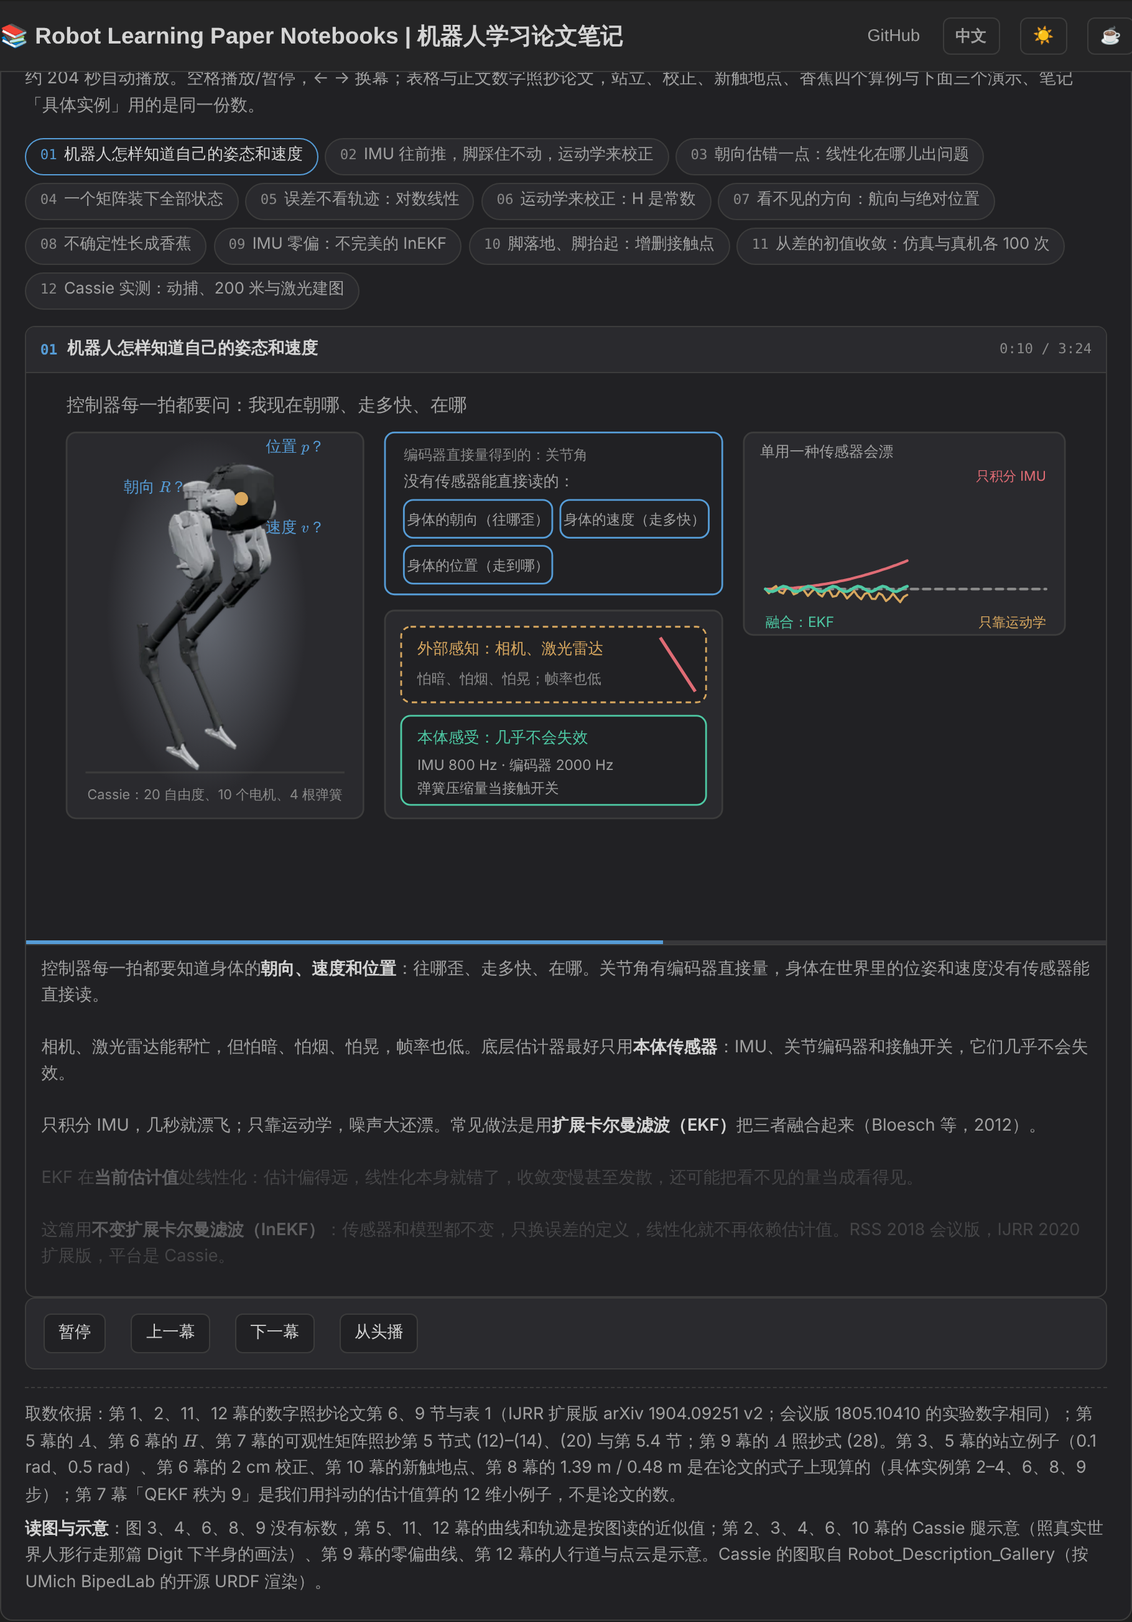
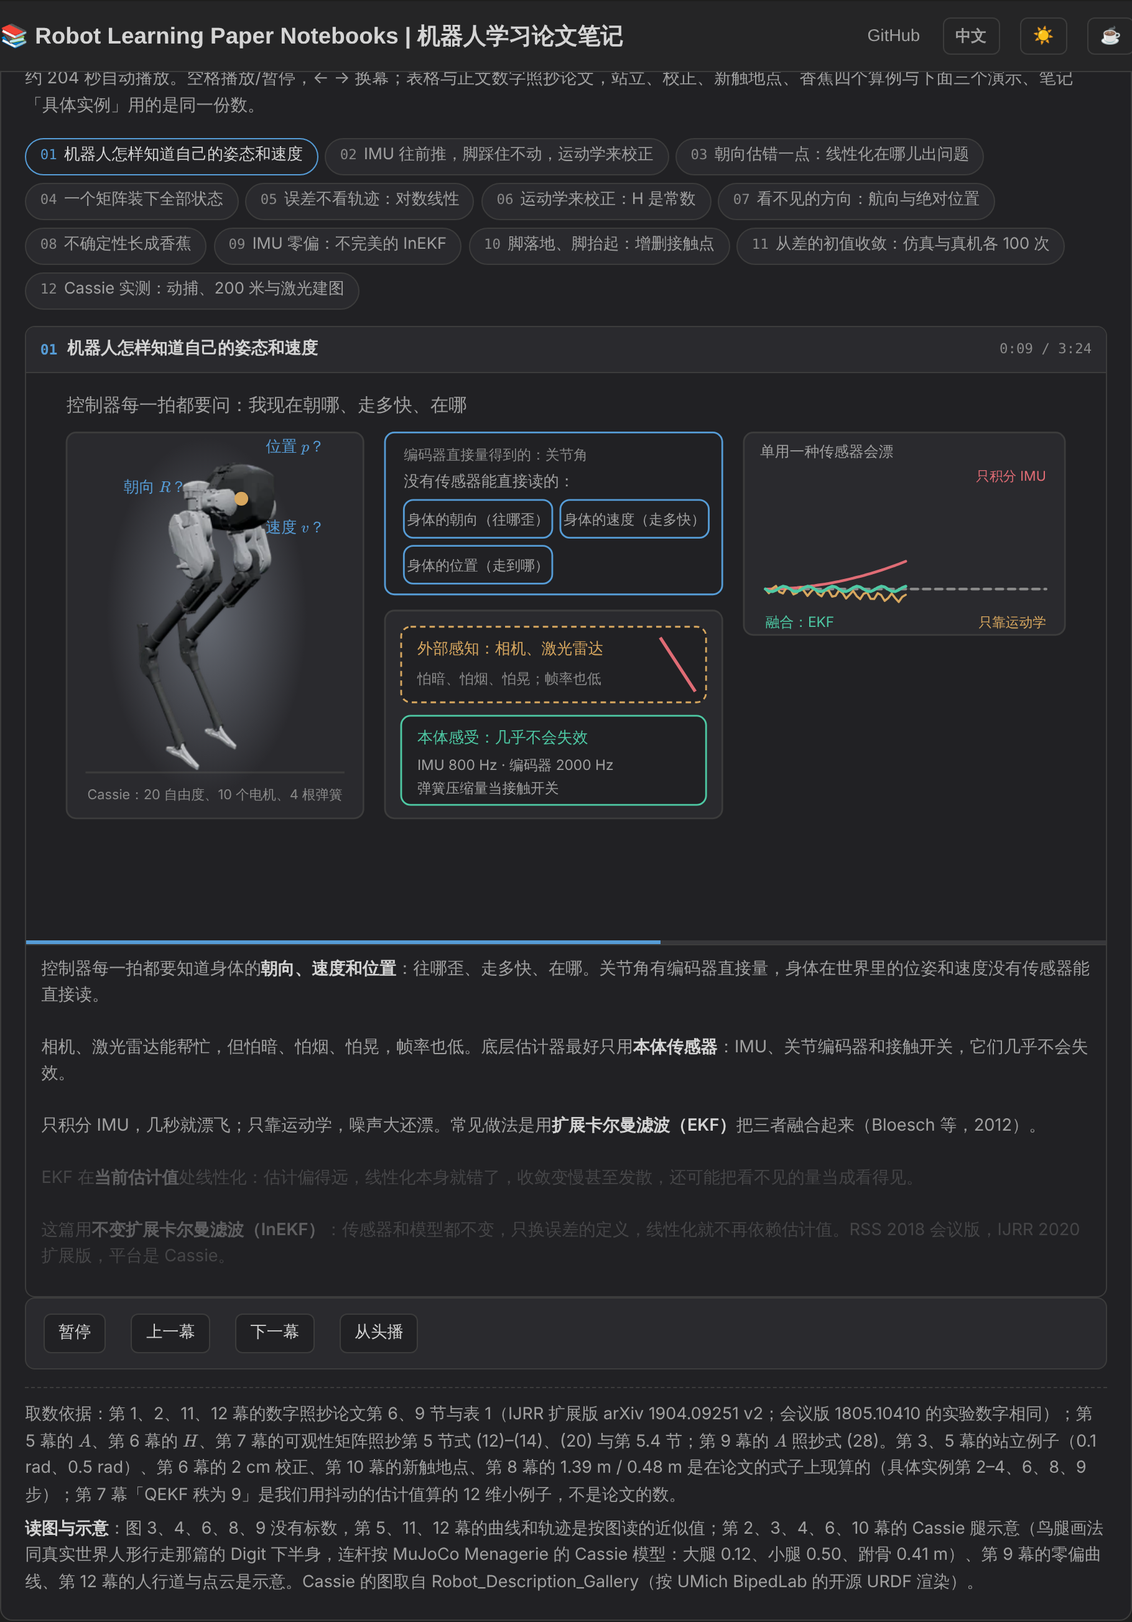
fix(Video): InEKF 的 Cassie 腿按真机连杆比例画，大腿 : 小腿 : 跗骨 = 0.12 : 0.50 : 0.41 m
- 上一版借用 Digit 示意的 0.36 / 0.42 / 0.23，大腿长了三倍。连杆改取 MuJoCo Menagerie 的 agility_cassie/cassie.xml
  （Robot_Description_Gallery 记录的 MJCF）：髋俯仰 → 膝 0.12、膝 → 跗骨关节 0.50、跗骨关节 → 脚关节 0.41；
  按 home 关键帧做正运动学，站立时髋俯仰离地 0.916、脚关节离地 0.057，脚板从脚关节后 0.06 到前 0.10
- achilles 杆让大腿和跗骨成近似平行四边形：解约束算得膝弯 ±0.25 rad 时跗骨方向始终比大腿偏约 7°（6.9–7.3°），
  所以画图时跗骨跟着大腿转，一条腿只剩大腿角一个自由度，按「小腿长度不变」一维求根，取离站立角最近的根
- 新常量 CASSIE_LEG 集中放连杆数，比例改这一处；脚画成三角形；第 6 幕摆动脚收到身体下方，第 10 幕腿长按实际髋高 66 px
- 测试改为 test_inekf_legs_use_the_cassie_link_lengths：用 MJCF 相邻 body 的 pos 现算三段长度并核对比例 1 : 4.2 : 3.4

Claude-Session: https://claude.ai/code/session_01PLYEa36V2gsL86FEXwhLUW

Changed region(s): [[0.0308, 0.9317, 0.9846, 0.9939], [0.7692, 0.3416, 0.8, 0.3727]]

diff --git a/assets/js/demos/inekf.js b/assets/js/demos/inekf.js
@@ -60,6 +60,11 @@
      十二幕动画、三个演示、配音旁白与笔记「🚶 具体实例」共用这一份。 */
   var G = 9.81; // 代码 InEKF.cpp：g_ = (0, 0, −9.81)
   var CASSIE = { dof: 20, actuators: 10, springs: 4, encoders: 14, imuHz: 800, encHz: 2000, height: 1.2732 }; // 第 9 节；身高取自 Robot_Description_Gallery 的 URDF 测量（UMich BipedLab 展示模型）
+  /* Cassie 一条腿在侧视平面里的连杆（m），取自 mujoco_menagerie 的 agility_cassie/cassie.xml（Robot_Description_Gallery 记录的 MJCF），
+     按 home 关键帧做正运动学：髋俯仰 → 膝 0.12、膝 → 跗骨关节 0.50、跗骨关节 → 脚关节 0.41；站立时髋俯仰离地 0.916、脚关节离地 0.057，
+     脚板（碰撞胶囊）从脚关节后 0.06 到前 0.10。achilles 杆把大腿和跗骨连成近似平行四边形：膝弯 ±0.25 rad 时跗骨方向始终比大腿偏约 7°，
+     所以画图时跗骨跟着大腿转，一条腿只剩一个自由度。比例 大腿 : 小腿 : 跗骨 ≈ 1 : 4.2 : 3.4 */
+  var CASSIE_LEG = { thigh: 0.12, shin: 0.5, tarsus: 0.41, hipH: 0.916, footJointH: 0.057, heel: 0.06, toe: 0.1, tarsusFromThighDeg: 7.1, thighDeg: 61.5 };
   var TABLE1 = {
     // 表 1：离散噪声标准差与初始标准差（扩展版的零偏单位是 m/s³、rad/s²；会议版写成 m/s²、rad/s）
     noise: [['线加速度', '0.04 m/s²'], ['角速度', '0.002 rad/s'], ['加速度计零偏', '0.001 m/s³'], ['陀螺零偏', '0.001 rad/s²'], ['接触点线速度', '0.05 m/s'], ['关节编码器', '1.0°']],
@@ -787,17 +792,18 @@
     g.appendChild(img);
     return { g: g, w: w, h: h, mark: function (nn) { return [x + nn[0] * w, yBottom - h + nn[1] * h]; } };
   }
-  /* 侧视的 Cassie 示意（面朝 +x）：骨盆是一个带坐标轴的圆角块（IMU 在里面），腿照真实世界人形行走那篇的
-     Digit 下半身画 —— Digit 的腿就是 Cassie 的腿：大腿往前、小腿往后、跗骨再往前落到脚板上，髋上一个电机盘。
-     远侧那条腿淡一些。o.legH 是站直时髋到地面的像素数（连杆长度按它定，取 Digit 的比例），o.bodySc 缩放骨盆。
-     put(x, y, ang, feet, rigid)：骨盆中心 (x, y)、俯仰 ang（rad，图上逆时针为正）、feet = [[x, y, 着地?], …]（先近侧后远侧）；
-     rigid 为真时跗骨和脚板也跟着骨盆转（第 4 幕把整个机器人当刚体转一下） */
+  /* 侧视的 Cassie 示意（面朝 +x）：骨盆是一个带坐标轴的圆角块（IMU 在里面），腿按 CASSIE_LEG 的真实连杆画（鸟腿，同真实世界人形行走那篇的
+     Digit 下半身）：很短的大腿往前下、长小腿往后下、长跗骨再往前下落到三角形的脚上；跗骨方向 = 大腿方向偏 7°（achilles 平行四边形）。
+     远侧那条腿淡一些。o.legH 是站直时髋到地面的像素数（1 m = legH / 0.916 px），o.bodySc 缩放骨盆。
+     put(x, y, ang, feet, rigid)：骨盆中心 (x, y)、俯仰 ang（rad，图上逆时针为正）、feet = [[x, y, 着地?], …]（先近侧后远侧，给的是脚底在地上的点）；
+     rigid 为真时脚也跟着骨盆转（第 4 幕把整个机器人当刚体转一下） */
   function cassieLegs(parent, color, dashed, opts) {
-    var o = opts || {}, H = o.legH || 62, bs = o.bodySc || 1;
-    var M = H / 0.86, L1 = 0.36 * M, L2 = 0.42 * M, TAR = [-0.11 * M, -0.2 * M], ws = Math.min(M / 100, 1.1);
+    var o = opts || {}, bs = o.bodySc || 1, LG = CASSIE_LEG;
+    var M = (o.legH || 62) / LG.hipH, ws = Math.min(M / 70, 1.1);
+    var L1 = LG.thigh * M, L2 = LG.shin * M, L3 = LG.tarsus * M, C = (LG.tarsusFromThighDeg * Math.PI) / 180, A0 = (LG.thighDeg * Math.PI) / 180;
     var g = group(parent);
     function bone(parentG, w) {
-      var ln = paint(svgEl('line', { 'stroke-width': (dashed ? Math.max(1.6, w * ws * 0.55) : w * ws).toFixed(2), 'stroke-linecap': 'round' }), null, color);
+      var ln = paint(svgEl('line', { 'stroke-width': (dashed ? Math.max(1.6, w * ws * 0.5) : w * ws).toFixed(2), 'stroke-linecap': 'round' }), null, color);
       if (dashed) ln.setAttribute('stroke-dasharray', '4 3');
       parentG.appendChild(ln);
       return ln;
@@ -805,11 +811,12 @@
     function leg(far) {
       var lg = group(g);
       if (far) lg.style.opacity = 0.45;
-      var L = { thigh: bone(lg, 6.5), shin: bone(lg, 5.5), tar: bone(lg, 4), foot: bone(lg, 3.6) };
-      L.motor = paint(svgEl('circle', { r: Math.min(0.075 * M, 9).toFixed(1), 'stroke-width': 1.4 }), C_SURFACE, color);
-      if (dashed) L.motor.setAttribute('stroke-dasharray', '3 2');
-      lg.appendChild(L.motor);
-      L.dot = dotAt(lg, 0, 0, clamp(0.045 * M, 2.4, 4), color);
+      var L = { shin: bone(lg, 3.6), tar: bone(lg, 3), thigh: bone(lg, 9) };
+      L.foot = svgEl('path', { 'stroke-width': 1.2, 'stroke-linejoin': 'round' });
+      if (dashed) { paint(L.foot, 'none', color); L.foot.setAttribute('stroke-dasharray', '3 2'); }
+      else paint(L.foot, color, color);
+      lg.appendChild(L.foot);
+      L.dot = dotAt(lg, 0, 0, clamp(0.04 * M, 2.2, 3.6), color);
       return L;
     }
     var farLeg = leg(true);
@@ -823,20 +830,40 @@
     dotAt(body, 0, 0, 2.6, color);
     var nearLeg = leg(false);
     function rot(v, th) { return [v[0] * Math.cos(th) - v[1] * Math.sin(th), v[0] * Math.sin(th) + v[1] * Math.cos(th)]; }
-    function pose(L, hip, f, th) {
-      var tar = rot(TAR, th), ankle = [f[0] + tar[0], f[1] + tar[1]];
-      var dx = ankle[0] - hip[0], dy = ankle[1] - hip[1];
-      var d = clamp(Math.hypot(dx, dy), 0.2 * M, L1 + L2 - 0.01);
-      var base = Math.atan2(dy, dx), bend = Math.acos(clamp((L1 * L1 + d * d - L2 * L2) / (2 * L1 * d), -1, 1));
-      var a = base - bend; // 膝盖朝前
-      var knee = [hip[0] + L1 * Math.cos(a), hip[1] + L1 * Math.sin(a)];
-      var ank = [hip[0] + d * Math.cos(base), hip[1] + d * Math.sin(base)];
-      setLine(L.thigh, hip[0], hip[1], knee[0], knee[1]);
-      setLine(L.shin, knee[0], knee[1], ank[0], ank[1]);
-      setLine(L.tar, ank[0], ank[1], f[0], f[1]);
-      var heel = rot([-0.05 * M, 0], th), toe = rot([0.09 * M, 0], th);
-      setLine(L.foot, f[0] + heel[0], f[1] + heel[1], f[0] + toe[0], f[1] + toe[1]);
-      L.motor.setAttribute('cx', hip[0].toFixed(1)); L.motor.setAttribute('cy', hip[1].toFixed(1));
+    /* 大腿角 a（图上从 +x 顺时针量）定了，膝 K、跗骨关节 A 就定了；要求 |A − K| = 小腿长，一维求根，取离站立角最近的那个根 */
+    function gap(H, J, a) {
+      var K = [H[0] + L1 * Math.cos(a), H[1] + L1 * Math.sin(a)], b = a - C;
+      var A = [J[0] - L3 * Math.cos(b), J[1] - L3 * Math.sin(b)];
+      return { K: K, A: A, f: Math.hypot(A[0] - K[0], A[1] - K[1]) - L2 };
+    }
+    function solve(H, J, aRef) {
+      var root = null, near = null, step = Math.PI / 90, prev = null;
+      for (var a = aRef - 1.6; a <= aRef + 1.6 + 1e-9; a += step) {
+        var cur = { a: a, f: gap(H, J, a).f };
+        if (!near || Math.abs(cur.f) < Math.abs(near.f)) near = cur;
+        if (prev && (prev.f <= 0) !== (cur.f <= 0)) {
+          var lo = prev.a, hi = cur.a, flo = prev.f;
+          for (var it = 0; it < 40; it++) {
+            var mid = (lo + hi) / 2, fm = gap(H, J, mid).f;
+            if ((fm <= 0) === (flo <= 0)) { lo = mid; flo = fm; } else hi = mid;
+          }
+          var r = (lo + hi) / 2;
+          if (root == null || Math.abs(r - aRef) < Math.abs(root - aRef)) root = r;
+        }
+        prev = cur;
+      }
+      return gap(H, J, root == null ? near.a : root);
+    }
+    function pose(L, H, f, th) {
+      var J = [f[0] + rot([0, -LG.footJointH * M], th)[0], f[1] + rot([0, -LG.footJointH * M], th)[1]];
+      var q = solve(H, J, A0 + th), A = q.A, K = q.K;
+      /* 小腿两端用解出来的点；跗骨从 A 连到脚关节 J（无解时 A 是最接近的那个，跗骨会略长一点） */
+      setLine(L.thigh, H[0], H[1], K[0], K[1]);
+      setLine(L.shin, K[0], K[1], A[0], A[1]);
+      setLine(L.tar, A[0], A[1], J[0], J[1]);
+      var heel = rot([-LG.heel * M, 0], th), toe = rot([LG.toe * M, 0], th);
+      L.foot.setAttribute('d', 'M ' + J[0].toFixed(1) + ' ' + J[1].toFixed(1) + ' L ' + (f[0] + heel[0]).toFixed(1) + ' ' + (f[1] + heel[1]).toFixed(1) +
+        ' L ' + (f[0] + toe[0]).toFixed(1) + ' ' + (f[1] + toe[1]).toFixed(1) + ' Z');
       moveDot(L.dot, f);
       L.dot.style.opacity = f[2] ? 1 : 0.35;
     }
@@ -845,8 +872,8 @@
       put: function (x, y, ang, feet, rigid) {
         body.setAttribute('transform', 'translate(' + x.toFixed(1) + ' ' + y.toFixed(1) + ') rotate(' + ((-ang * 180) / Math.PI).toFixed(2) + ')');
         [nearLeg, farLeg].forEach(function (L, k) {
-          var off = rot([k ? -2 * bs : 2 * bs, 12 * bs], -ang), f = feet[k];
-          pose(L, [x + off[0], y + off[1]], f, rigid ? -ang : 0);
+          var off = rot([k ? -2 * bs : 2 * bs, 12 * bs], -ang);
+          pose(L, [x + off[0], y + off[1]], feet[k], rigid ? -ang : 0);
         });
       }
     };
@@ -1444,7 +1471,7 @@
       var pNow = [UPD.p[0] + k * UPD_EX.dp[0] * MAG, 0, UPD.p[2] + k * UPD_EX.dp[2] * MAG];
       var dNow = [UPD.d[0] + k * UPD_EX.dd[0] * MAG, 0, UPD.d[2] + k * UPD_EX.dd[2] * MAG];
       var bp = W(pNow), dp = W(dNow);
-      bodyB.put(bp[0], bp[1], 0, [[dp[0], dp[1], true], [bp[0] - 56, GY - 38, false]]);
+      bodyB.put(bp[0], bp[1], 0, [[dp[0], dp[1], true], [bp[0] - 26, GY - 40, false]]);
       moveDot(footD, dp);
       /* 测量：从身体出发的 R̄h（h 比估计长 2 cm，放大 10 倍） */
       var hEnd = [pNow[0] + (UPD.h[0] + (UPD.h[0] - (UPD.d[0] - UPD.p[0])) * (MAG - 1)), 0, pNow[2] + (UPD.h[2] + (UPD.h[2] - (UPD.d[2] - UPD.p[2])) * (MAG - 1))];
@@ -1730,7 +1757,7 @@
     rectBox(top, 30, 44, 500, 170, C_BORDER, C_SURFACE2);
     var GY = 196;
     hline(top, 44, GY, 516, GY, C_BORDER, 1.4);
-    var body = cassieLegs(top, C_EST, false, { legH: 70 });
+    var body = cassieLegs(top, C_EST, false, { legH: 66 });
     var prints = group(top);
     var tag = svgRich(0, 0, '', { size: 10.5, anchor: 'middle', w: 120, cls: 'demo-x-good' });
     top.appendChild(tag);
@@ -2129,7 +2156,7 @@
       notes: [
         '取数依据：第 1、2、11、12 幕的数字照抄论文第 6、9 节与表 1（IJRR 扩展版 arXiv 1904.09251 v2；会议版 1805.10410 的实验数字相同）；第 5 幕的 $A$、第 6 幕的 $H$、第 7 幕的可观性矩阵照抄第 5 节式 (12)–(14)、(20) 与第 5.4 节；第 9 幕的 $A$ 照抄式 (28)。' +
           '第 3、5 幕的站立例子（0.1 rad、0.5 rad）、第 6 幕的 2 cm 校正、第 10 幕的新触地点、第 8 幕的 1.39 m / 0.48 m 是在论文的式子上现算的（具体实例第 2–4、6、8、9 步）；第 7 幕「QEKF 秩为 9」是我们用抖动的估计值算的 12 维小例子，不是论文的数。',
-        '**读图与示意**：图 3、4、6、8、9 没有标数，第 5、11、12 幕的曲线和轨迹是按图读的近似值；第 2、3、4、6、10 幕的 Cassie 腿示意（照真实世界人形行走那篇 Digit 下半身的画法）、第 9 幕的零偏曲线、第 12 幕的人行道与点云是示意。Cassie 的图取自 Robot_Description_Gallery（按 UMich BipedLab 的开源 URDF 渲染）。'
+        '**读图与示意**：图 3、4、6、8、9 没有标数，第 5、11、12 幕的曲线和轨迹是按图读的近似值；第 2、3、4、6、10 幕的 Cassie 腿示意（鸟腿画法同真实世界人形行走那篇的 Digit 下半身，连杆按 MuJoCo Menagerie 的 Cassie 模型：大腿 0.12、小腿 0.50、跗骨 0.41 m）、第 9 幕的零偏曲线、第 12 幕的人行道与点云是示意。Cassie 的图取自 Robot_Description_Gallery（按 UMich BipedLab 的开源 URDF 渲染）。'
       ],
       scenes: INEKF_SCENES
     });

diff --git a/tests/test_paper_demos.py b/tests/test_paper_demos.py
@@ -1335,20 +1335,31 @@ def test_beyondmimic_explainer_demos_and_worked_example_share_the_paper_numbers(
         assert stale not in note, f"旧版笔记的说法：{stale}"
 
 
-def test_inekf_legs_are_drawn_like_the_digit_lower_body():
-    """InEKF 讲解动画里的机器人示意画 Cassie 的鸟腿，比例照抄真实世界人形行走那篇的 Digit 下半身（Digit 的腿就是 Cassie 的腿）。
+def test_inekf_legs_use_the_cassie_link_lengths():
+    """InEKF 讲解动画里的 Cassie 腿示意按真机连杆画：大腿 0.12、小腿 0.50、跗骨 0.41（m），比例约 1 : 4.2 : 3.4。
 
-    大腿 0.36、小腿 0.42、跗骨偏移 (−0.11, −0.2)、髋高 0.86（单位 m，按像素比例缩放）；旧版「方块 + 两段线」的火柴人不再出现。
+    数取自 mujoco_menagerie 的 agility_cassie/cassie.xml（Robot_Description_Gallery 记录的 MJCF）里相邻 body 的 pos：
+    髋俯仰 → 膝 (0.12, 0, 0.0045)；膝 → 小腿 (0.06068, 0.04741, 0) 再 → 跗骨 (0.43476, 0.02, 0)（小腿关节是 ±20° 的弹簧，取 0）；
+    跗骨 → 脚 (0.408, −0.04, 0)。站立的髋高、脚关节高与「跗骨比大腿偏 7°」是按 home 关键帧做正运动学得到的，这里只核对连杆长度。
+    旧版借用 Digit 示意的 0.36 / 0.42 / 0.23 比例（大腿长了三倍），不再出现。
     """
-    digit = (ROOT / "assets" / "js" / "demos" / "realhumanoid.js").read_text(encoding="utf-8")
-    inekf = (ROOT / "assets" / "js" / "demos" / "inekf.js").read_text(encoding="utf-8")
-    for needle in ("L1 = 0.36 * M", "L2 = 0.42 * M", "TAR = [-0.11 * M, -0.2 * M]", "HIP_H = 0.86 * M"):
-        assert needle in digit, needle
-    assert "var M = H / 0.86, L1 = 0.36 * M, L2 = 0.42 * M, TAR = [-0.11 * M, -0.2 * M]" in inekf
-    assert "var a = base - bend; // 膝盖朝前" in inekf
-    assert "bodyLegs" not in inekf
-    assert inekf.count("cassieLegs(") == 9  # 定义 1 处；第 2、3、4 幕各两个（真值 + 估计），第 6、10 幕各一个
-    assert "UMich BipedLab" in inekf
+    import math
+
+    js = (ROOT / "assets" / "js" / "demos" / "inekf.js").read_text(encoding="utf-8")
+    m = re.search(r"var CASSIE_LEG = \{([^}]*)\};", js)
+    assert m, "inekf.js 里找不到 CASSIE_LEG"
+    leg = {k: float(v) for k, v in re.findall(r"(\w+): (-?\d+(?:\.\d+)?)", m.group(1))}
+    thigh = math.hypot(0.12, 0.0045)
+    shin = math.hypot(0.06068 + 0.43476, 0.04741 + 0.02)
+    tarsus = math.hypot(0.408, -0.04)
+    assert abs(leg["thigh"] - thigh) < 0.002 and abs(leg["shin"] - shin) < 0.002 and abs(leg["tarsus"] - tarsus) < 0.002
+    assert round(leg["shin"] / leg["thigh"], 1) == 4.2 and round(leg["tarsus"] / leg["thigh"], 1) == 3.4
+    assert leg["hipH"] == 0.916 and leg["tarsusFromThighDeg"] == 7.1
+    assert "大腿 : 小腿 : 跗骨 ≈ 1 : 4.2 : 3.4" in js
+    for stale in ("bodyLegs", "L1 = 0.36 * M", "TAR = [-0.11 * M, -0.2 * M]"):
+        assert stale not in js, stale
+    assert js.count("cassieLegs(") == 9  # 定义 1 处；第 2、3、4 幕各两个（真值 + 估计），第 6、10 幕各一个
+    assert "UMich BipedLab" in js
 
 
 def test_beyondmimic_stick_figures_bend_the_right_way():

diff --git a/scripts/paper_video/RELEASE_PLAN.md b/scripts/paper_video/RELEASE_PLAN.md
@@ -41,7 +41,7 @@
 - [x] 016 [LCP](../../papers/01_Foundational_RL/LCP_Sim-to-Real_Action_Smoothing/LCP_Sim-to-Real_Action_Smoothing.md)（2024）🎬 `lcp` — DR→LCP；2026-10-05 重做成十幕，片头接 015 的片尾预告（OP3 用输出端滤波，LCP 改成梯度惩罚）；同日按「公式太多」的反馈改成以动图为主，重配为 9 分 56 秒
 - [x] 017 [ASAP](../../papers/03_High_Impact_Selection/ASAP_Aligning_Simulation_and_Real-World_Physics_for_Agile_Humanoid_Skills/ASAP_Aligning_Simulation_and_Real-World_Physics_for_Agile_Humanoid_Skills.md)（2025）🎬 `asap` — LCP→ASAP、ASAP⇢BeyondMimic；BeyondMimic 笔记拿它当「单动作专用，每条动作要单独调 DR / 奖励」的对照；2026-10-06 新做十二幕，片头接 016 的片尾预告（LCP 改策略，ASAP 改仿真），片尾预告 018 BeyondMimic；截至 2026-10-08 已发布（用户确认）
 - [x] 018 [BeyondMimic](../../papers/01_Foundational_RL/BeyondMimic/BeyondMimic.md)（2025）🎬 `beyondmimic` — DP→BeyondMimic；笔记把 CALM / PULSE 和 Diffusion Policy 列为它要补足的两类前作；2026-10-06 按 arXiv v4 重做成十二幕，片头接 017 的片尾预告（ASAP 一段动作一套配方 → BeyondMimic 一份配方），2026-10-07 片尾画面与配音的源文件已改为预告 019 InEKF「机器人怎样知道自己当前的姿态和速度」（借第 12 幕「还依赖状态估计」接过去，不说 BeyondMimic 用了 InEKF），同日参考 ASAP 改正火柴人（前踢反关节、侧手翻改成腾空）与几条曲线；2026-10-08 全片重渲为 9 分 47 秒、换进笔记；同日按看片反馈改 VAE 读法（逐字母念）、第 5 幕改成皮带减速器（电机小轮转 5 圈、关节大轮转 1 圈、同向）、第 11 幕说明灰虚线（只加路点代价时穿过障碍）、四处文字出框、SDF / CppAD 各加一句解释，随后以四段并行完成全片重渲（本次交付原片 10 分 9 秒，1080×1920、30 fps、18,282 帧），排版、完整帧数与全片解码检查均通过；截至 2026-10-08 已发布（用户确认）
-- [ ] 019 [Contact-Aided InEKF](../../papers/09_State_Estimation/Contact-Aided_Invariant_EKF_for_Legged_Robots/Contact-Aided_Invariant_EKF_for_Legged_Robots.md)（2018 / 2019）🎬 `inekf` — day6「状态估计先于动作」：融合 IMU、接触与足端运动学，估计身体姿态和速度。〔取舍〕先看 BeyondMimic 的跟踪能力，再补状态估计背景；这是教学关联，不表示 BeyondMimic 采用该论文的 InEKF。day6 对应 [RSS 2018 会议版](https://arxiv.org/abs/1805.10410)；上游清单收录的是 [IJRR 2020 扩展版](https://arxiv.org/abs/1904.09251)（标题去掉了 Legged，2019 年挂 arXiv），2026-10-08 以扩展版为准重写笔记、单列两版关系，新做十二幕动画、三个交互演示与配音视频（约 10 分钟），片头接 018 的片尾预告，片尾只预告 020 Berkeley Humanoid；同日按看片反馈换上 Robot_Description_Gallery 新的 Cassie 图（UMich BipedLab 展示模型，灰色），第 2、3、4、6、10 幕的火柴人改成 Cassie 鸟腿（照 014 真实世界人形行走 Digit 下半身的画法，Digit 的腿就是 Cassie 的腿），只出了第 1–4、6、10、12 幕的改动片段，**全片待重渲与验收后发布**。发布标题用扩展版英文标题（与 `_data/papers.json` 一致）
+- [ ] 019 [Contact-Aided InEKF](../../papers/09_State_Estimation/Contact-Aided_Invariant_EKF_for_Legged_Robots/Contact-Aided_Invariant_EKF_for_Legged_Robots.md)（2018 / 2019）🎬 `inekf` — day6「状态估计先于动作」：融合 IMU、接触与足端运动学，估计身体姿态和速度。〔取舍〕先看 BeyondMimic 的跟踪能力，再补状态估计背景；这是教学关联，不表示 BeyondMimic 采用该论文的 InEKF。day6 对应 [RSS 2018 会议版](https://arxiv.org/abs/1805.10410)；上游清单收录的是 [IJRR 2020 扩展版](https://arxiv.org/abs/1904.09251)（标题去掉了 Legged，2019 年挂 arXiv），2026-10-08 以扩展版为准重写笔记、单列两版关系，新做十二幕动画、三个交互演示与配音视频（约 10 分钟），片头接 018 的片尾预告，片尾只预告 020 Berkeley Humanoid；同日按看片反馈换上 Robot_Description_Gallery 新的 Cassie 图（UMich BipedLab 展示模型，灰色），第 2、3、4、6、10 幕的火柴人改成 Cassie 鸟腿（画法同 014 真实世界人形行走的 Digit 下半身，Digit 的腿就是 Cassie 的腿；连杆按 MuJoCo Menagerie 的 Cassie 模型，大腿 : 小腿 : 跗骨 = 0.12 : 0.50 : 0.41 m，跗骨跟着大腿转），只出了第 1–4、6、10、12 幕的改动片段，**全片待重渲与验收后发布**。发布标题用扩展版英文标题（与 `_data/papers.json` 一致）
 - [ ] 020 [Berkeley Humanoid](https://arxiv.org/abs/2407.21781)（2024）🆕 笔记待建（12_Hardware_Design）— day6「仿真与硬件」：硬件、执行器台架辨识与仿真训练共同设计。LCP 在该平台上验证，属于部署平台关联。〔取舍〕承接状态估计，补上控制命令落到硬件这一环
 - [ ] 021 [ToddlerBot](https://arxiv.org/abs/2502.00893)（2025）🆕 笔记待建（12_Hardware_Design）— day6「仿真与硬件」：把校准、数字孪生、遥操作采集与部署工具连成完整平台。〔取舍〕与 Berkeley Humanoid 连着讲，由硬件与仿真对齐走向整套工具链；片尾从遥操作采集引出 022 HumanML3D / 023 GMR 的动作数据与重定向
 - [ ] 022 [AMASS / HumanML3D](../../papers/14_Human_Motion/HumanML3D/HumanML3D.md)（2019 / 2022）🎬 `humanml3d` 可选 — AMASS / HumanML3D→GMR；视频讲的是 HumanML3D
